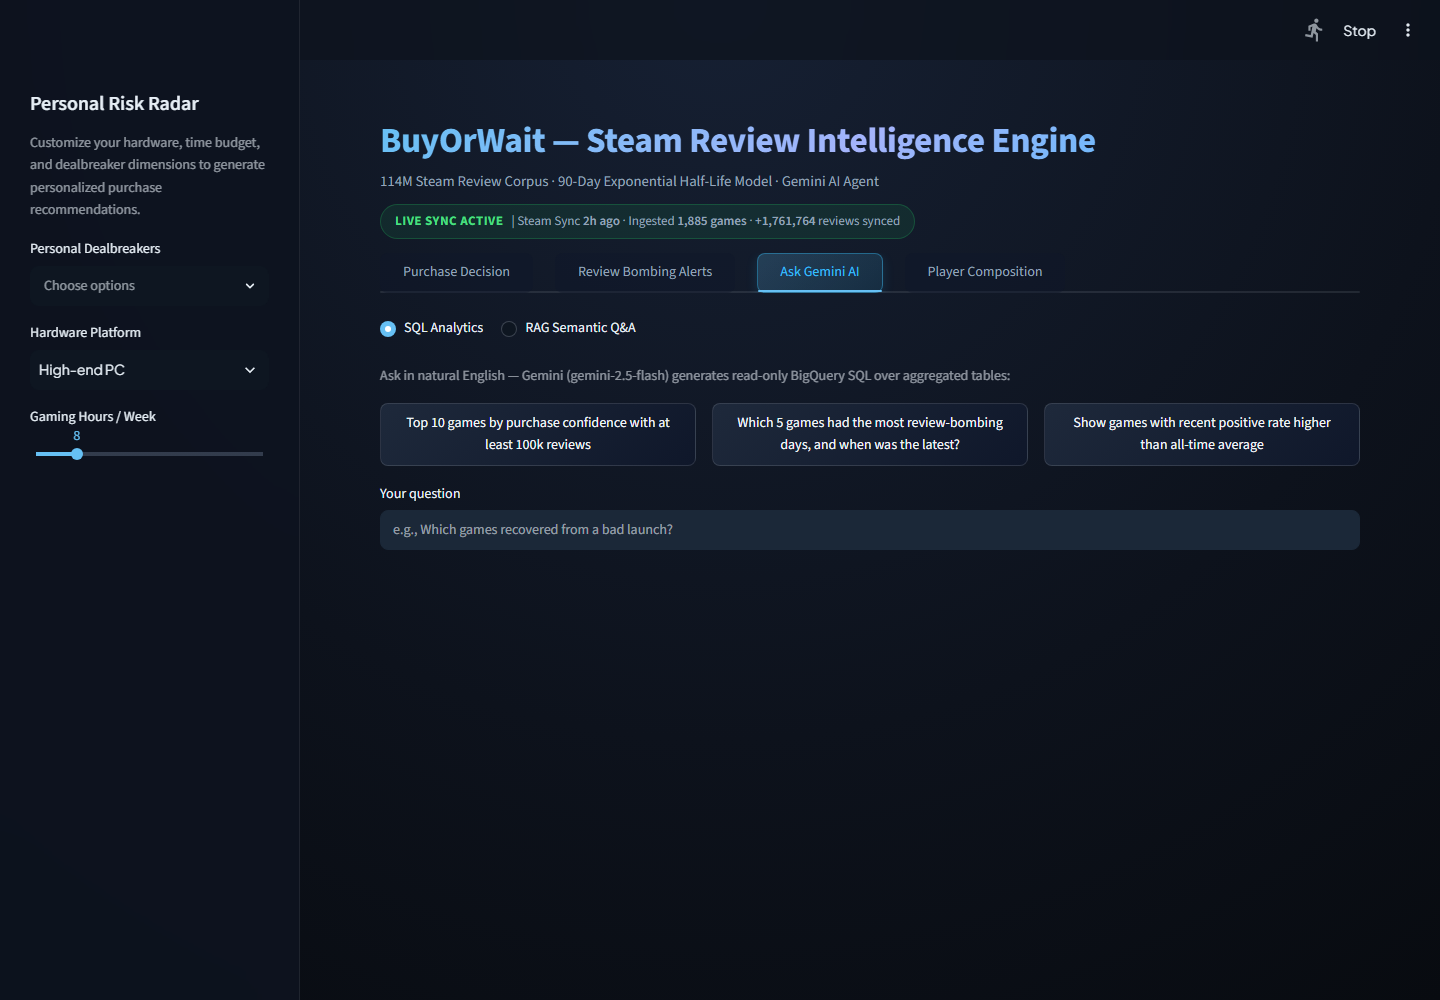
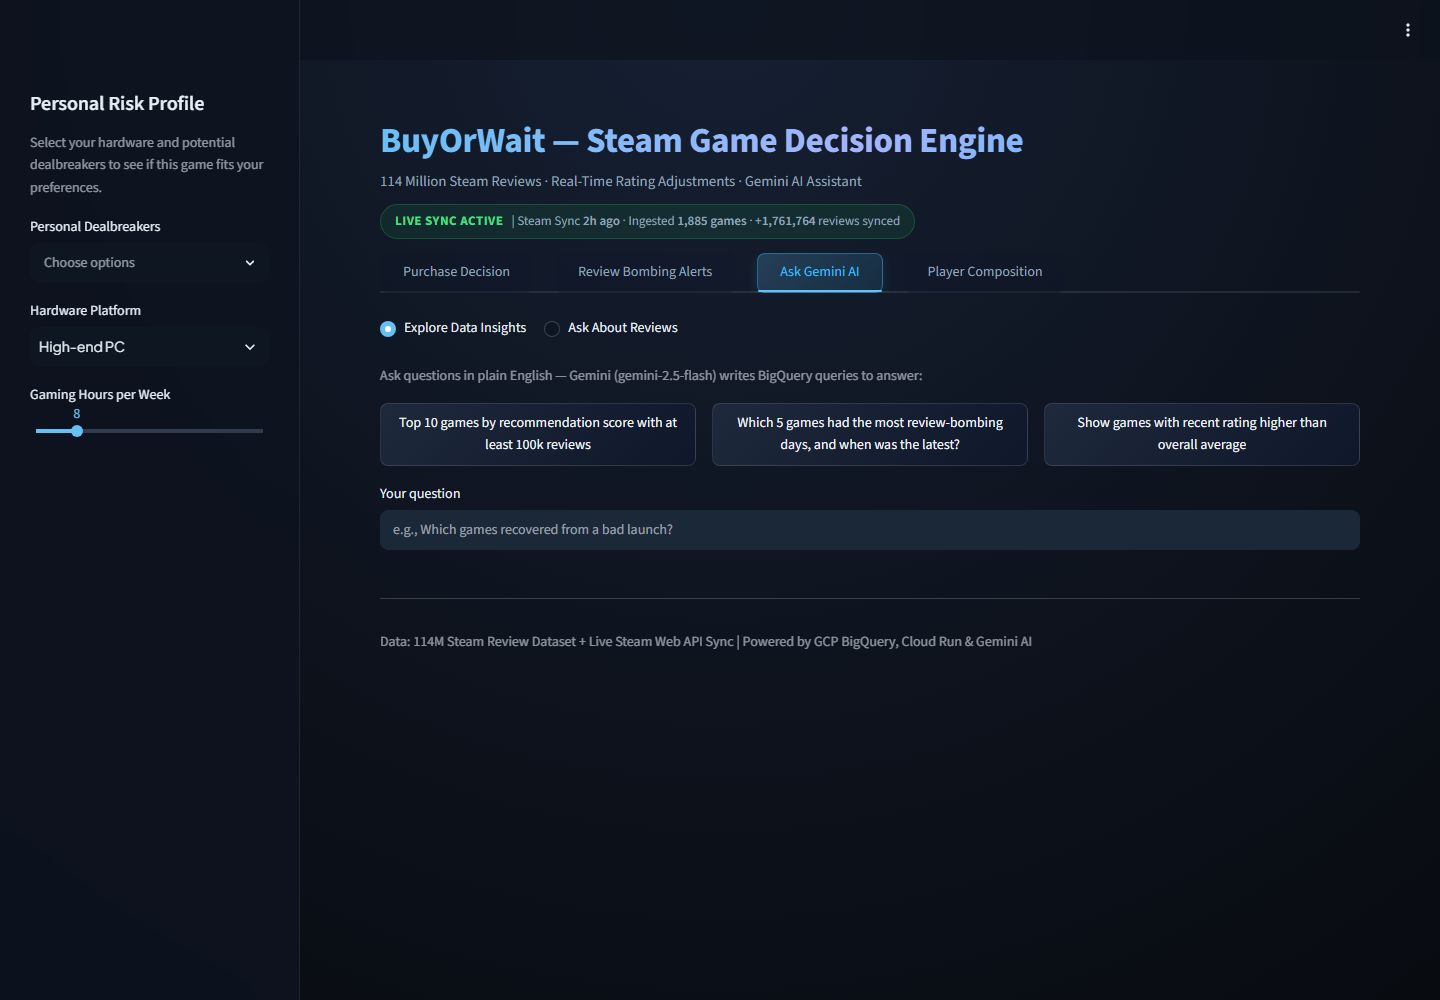
refactor(metrics): simplify technical jargon into intuitive player-friendly metrics

diff --git a/app/app.py b/app/app.py
@@ -21,7 +21,7 @@ PROJECT = os.environ.get("GCP_PROJECT", "buyorwait-2026")
 DATASET = os.environ.get("BQ_DATASET", "steam_intel")
 GEMINI_MODEL = os.environ.get("GEMINI_MODEL", "gemini-2.5-flash")
 
-st.set_page_config(page_title="BuyOrWait — Steam Review Intelligence Platform", page_icon="🎮", layout="wide")
+st.set_page_config(page_title="BuyOrWait — Steam Game Decision Engine", page_icon="🎮", layout="wide")
 
 # Modern Glassmorphism Dark Theme CSS
 st.markdown("""
@@ -165,7 +165,7 @@ def T(name: str) -> str:
 def verdict(score: float, recent: float | None) -> str:
     base = "RECOMMENDED (Buy)" if score >= 70 else ("PROCEED WITH CAUTION (Wait)" if score >= 40 else "NOT RECOMMENDED (Skip)")
     if recent is not None and not pd.isna(recent) and recent + 15 < score:
-        base += " (Recent sentiment decline detected)"
+        base += " (Recent rating drop detected)"
     return base
 
 
@@ -228,16 +228,15 @@ def live_panel(appid: int, snap_recent: float | None):
         st.info("Steam reports no reviews for this app.")
         return
     c1, c2, c3, c4 = st.columns(4)
-    c1.metric("Overall rating (live)", live["desc"],
+    c1.metric("Overall Rating (Steam Live)", live["desc"],
               f"{live['total_pos']:.0f}% positive", delta_color="off")
-    c2.metric("Total reviews (live)", f"{live['total']:,}")
-    c3.metric(f"Newest {live['sample_n']} reviews",
+    c2.metric("Total Reviews (Live)", f"{live['total']:,}")
+    c3.metric(f"Newest {live['sample_n']} Reviews",
               "—" if live["sample_pos"] is None else f"{live['sample_pos']:.0f}% Positive",
               None if (live["sample_pos"] is None or snap_recent is None)
-              else f"{live['sample_pos'] - snap_recent:+.0f}% vs snapshot recent 90d")
-    c4.metric("Newest review", live["newest"] or "—")
-    st.caption("Fetched seconds ago from the public Steam appreviews API — the same feed an "
-               "incremental ingestion job would stream into BigQuery to keep scores current.")
+              else f"{live['sample_pos'] - snap_recent:+.0f}% vs recent snapshot")
+    c4.metric("Newest Review Date", live["newest"] or "—")
+    st.caption("Live data fetched directly from Steam API to keep scores up to date.")
 
 
 # ---- Semantic layer: query embedding + BigQuery VECTOR_SEARCH ----------------
@@ -277,13 +276,13 @@ def vsearch(appid: int, query: str, k: int = 20, polarity: bool | None = None) -
 
 
 RADAR_DIMS = {
-    "Monetization & MTX": "microtransactions pay to win overpriced cash grab battle pass",
+    "Monetization & In-Game Purchases": "microtransactions pay to win overpriced cash grab battle pass",
     "Low-End PC Performance": "fps drops stuttering lag poor optimization low end pc",
-    "Bugs & Stability": "bugs crashes broken glitches corrupted save unplayable",
-    "Server & Network Stability": "servers down disconnect lag matchmaking dead online",
-    "Content Depth & Length": "too short lacking content finished in a few hours",
-    "Repetitive Grind": "grindy repetitive boring farming time gated chores",
-    "Steam Deck & Controller": "steam deck controller support broken keyboard only",
+    "Bugs & Technical Stability": "bugs crashes broken glitches corrupted save unplayable",
+    "Server & Online Connection": "servers down disconnect lag matchmaking dead online",
+    "Game Length & Content Shortage": "too short lacking content finished in a few hours",
+    "Repetitive Game Loop": "grindy repetitive boring farming time gated chores",
+    "Steam Deck & Controller Support": "steam deck controller support broken keyboard only",
 }
 
 
@@ -325,26 +324,26 @@ def freshness_badge():
         st.markdown("""
         <div style="display: flex; align-items: center; gap: 8px; background: rgba(234, 179, 8, 0.1); border: 1px solid rgba(234, 179, 8, 0.25); padding: 6px 14px; border-radius: 20px; width: fit-content; margin-bottom: 14px;">
             <span style="color: #facc15; font-size: 13px; font-weight: 700; letter-spacing: 0.5px;">SNAPSHOT ACTIVE</span>
-            <span style="color: #94a3b8; font-size: 13px;">| 114M Review Corpus Loaded · Nightly Sync Ingesting</span>
+            <span style="color: #94a3b8; font-size: 13px;">| 114 Million Steam Reviews Loaded · Nightly Sync Ingesting</span>
         </div>
         """, unsafe_allow_html=True)
 
 
-st.markdown('<div class="hero-title">BuyOrWait — Steam Review Intelligence Engine</div>', unsafe_allow_html=True)
-st.markdown('<div class="hero-subtitle">114M Steam Review Corpus · 90-Day Exponential Half-Life Model · Gemini AI Agent</div>', unsafe_allow_html=True)
+st.markdown('<div class="hero-title">BuyOrWait — Steam Game Decision Engine</div>', unsafe_allow_html=True)
+st.markdown('<div class="hero-subtitle">114 Million Steam Reviews · Real-Time Rating Adjustments · Gemini AI Assistant</div>', unsafe_allow_html=True)
 freshness_badge()
 
 # ---- My Radar: personal dealbreaker profile (session-only, no login) ---------
 with st.sidebar:
-    st.header("Personal Risk Radar")
-    st.caption("Customize your hardware, time budget, and dealbreaker dimensions to generate personalized purchase recommendations.")
+    st.header("Personal Risk Profile")
+    st.caption("Select your hardware and potential dealbreakers to see if this game fits your preferences.")
     my_dims = st.multiselect("Personal Dealbreakers", list(RADAR_DIMS), default=[])
     my_device = st.selectbox("Hardware Platform", ["High-end PC", "Low-end PC", "Steam Deck"], index=0)
-    my_hours = st.slider("Gaming Hours / Week", 1, 40, 8)
+    my_hours = st.slider("Gaming Hours per Week", 1, 40, 8)
     if my_device == "Low-end PC" and "Low-End PC Performance" not in my_dims:
         my_dims.append("Low-End PC Performance")
-    if my_device == "Steam Deck" and "Steam Deck & Controller" not in my_dims:
-        my_dims.append("Steam Deck & Controller")
+    if my_device == "Steam Deck" and "Steam Deck & Controller Support" not in my_dims:
+        my_dims.append("Steam Deck & Controller Support")
 
 tab_buy, tab_alert, tab_ask, tab_comp = st.tabs(
     ["Purchase Decision", "Review Bombing Alerts", "Ask Gemini AI", "Player Composition"])
@@ -358,7 +357,7 @@ with tab_buy:
                         labels, index=None,
                         placeholder="e.g., Cyberpunk 2077 / Overwatch 2 / ELDEN RING")
 
-    with st.expander("Game not listed? Search Steam live (post-2023 releases)"):
+    with st.expander("Game not listed? Search Steam live"):
         kw_live = st.text_input("Steam live search", placeholder="e.g., Black Myth: Wukong")
         if kw_live:
             try:
@@ -373,10 +372,9 @@ with tab_buy:
                         for g, a in zip(live_hits["game"], live_hits["appid"])}
                 pick_live = st.selectbox("Found on Steam (live):", list(opts))
                 _log_usage("live_search", pick_live, opts[pick_live])
-                st.subheader("Live Verification — Steam Web API")
+                st.subheader("Live Verification — Steam API")
                 live_panel(opts[pick_live], None)
-                st.caption("This game post-dates the snapshot, so it has no Purchase Confidence "
-                           "Score yet — tonight's sync starts scoring it once it enters the top tracked set.")
+                st.caption("This game post-dates the main dataset, so its score is fetched directly from live Steam ratings.")
 
     if pick:
         appid = int(pick.rsplit("#", 1)[1].rstrip(")"))
@@ -389,83 +387,81 @@ with tab_buy:
                     use_container_width=True)
         with c_m:
             c1, c2, c3, c4 = st.columns(4)
-            c1.metric("Purchase Confidence (0-100)", f"{row.score_live:.0f}")
+            c1.metric("Recommendation Score (0-100)", f"{row.score_live:.0f}")
             c2.metric("Verdict", verdict(row.score_live, row.recent_pos_rate_live))
-            c3.metric("Recent 90d Positive Rate",
+            c3.metric("Recent 90-Day Rating",
                       "—" if pd.isna(row.recent_pos_rate_live) else f"{row.recent_pos_rate_live:.0f}%",
                       delta=None if (pd.isna(row.recent_pos_rate_live) or pd.isna(row.raw_pos_rate))
-                      else f"{row.recent_pos_rate_live - row.raw_pos_rate:+.0f}% vs all-time")
-            c4.metric("Reviews Analyzed", f"{int(row.n_reviews_total):,}")
-        with st.expander("Score Rationale & Decay Model"):
+                      else f"{row.recent_pos_rate_live - row.raw_pos_rate:+.0f}% vs overall")
+            c4.metric("Total Reviews Analyzed", f"{int(row.n_reviews_total):,}")
+        with st.expander("Why This Score?"):
             st.markdown(
-                f"- **All-time positive rate:** {row.raw_pos_rate:.0f}% — baseline store page ratio\n"
-                f"- **Confidence score:** {row.score_live:.0f} — weighted by "
-                f"`log(1+playtime) × exp(−age/90d)`, anchored to **today**\n"
-                f"- **Recent 90 days:** "
+                f"- **All-Time Positive Rating:** {row.raw_pos_rate:.0f}% — standard Steam store percentage\n"
+                f"- **Recommendation Score:** {row.score_live:.0f} — gives higher weight to **recent reviews** and **players with long playtimes**\n"
+                f"- **Recent 90-Day Rating:** "
                 f"{'no recent reviews' if pd.isna(row.recent_pos_rate_live) else f'{row.recent_pos_rate_live:.0f}% positive over {int(row.recent_n_live):,} reviews'}\n"
-                f"- **Latest review date:** {row.last_review_day}\n\n"
-                "A large divergence between confidence score and all-time positive rate indicates recent sentiment shifts (patch updates or review bombing)."
+                f"- **Latest Review Date:** {row.last_review_day}\n\n"
+                "A noticeable gap between the recommendation score and all-time rating signals recent game updates or review bombing."
             )
 
-        # Reviewer composition X-ray
+        # Reviewer composition
         try:
             comp = q(f"""SELECT n, purchase_pct, free_pct, ea_pct
                          FROM {T('game_composition')} WHERE appid = @a""", a=appid)
             if not comp.empty:
                 c0 = comp.iloc[0]
-                st.caption(f"Reviewer Acquisition Mix ({int(c0.n):,} reviews): "
-                           f"{c0.purchase_pct:.0f}% Direct Purchase · "
-                           f"{c0.free_pct:.0f}% Free/Gift Key · "
-                           f"{c0.ea_pct:.0f}% Early Access Reviewers")
+                st.caption(f"Player Ownership Breakdown ({int(c0.n):,} reviews): "
+                           f"{c0.purchase_pct:.0f}% Bought on Steam · "
+                           f"{c0.free_pct:.0f}% Free / Gift Keys · "
+                           f"{c0.ea_pct:.0f}% Early Access Players")
         except Exception:
             pass
 
-        # ---------------- For YOU: personal collision card ----------------
+        # ---------------- For YOU: personal warning radar ----------------
         try:
             extra = q(f"""SELECT refund_zone_pct, pos_median_hours
                           FROM {T('game_scores')} WHERE appid = @a""", a=appid)
         except Exception:
             extra = pd.DataFrame()
-        st.subheader("Personalized Dealbreaker Radar")
+        st.subheader("Personal Warning Radar")
         red_flags = []
         if my_dims:
             cols = st.columns(min(len(my_dims), 4))
             for i, dim in enumerate(my_dims):
                 hits = vsearch(appid, RADAR_DIMS[dim], k=25, polarity=False)
                 if hits.empty:
-                    cols[i % 4].metric(dim, "—", "not in indexed set", delta_color="off")
+                    cols[i % 4].metric(dim, "—", "no matching reviews", delta_color="off")
                     continue
                 level, n = radar_level(hits)
                 if level.startswith("High"):
                     red_flags.append(dim)
                 cols[i % 4].metric(dim, level, f"{n} relevant complaints", delta_color="off")
-                with cols[i % 4].popover("View Evidence Quotes"):
+                with cols[i % 4].popover("See What Players Say"):
                     for t in hits["text"].head(3):
                         st.caption(f"“{t[:220]}…”")
         if not extra.empty and not pd.isna(extra.iloc[0].pos_median_hours):
             med_h = float(extra.iloc[0].pos_median_hours)
             weeks = med_h / max(my_hours, 1)
             rz = extra.iloc[0].refund_zone_pct
-            line = (f"Optimal Immersion Curve: Happy players reach core satisfaction at **{med_h:.0f}h** — "
-                    f"at your {my_hours}h/week budget, that represents **~{weeks:.1f} weeks** to full value.")
+            line = (f"Player Engagement: Satisfied players spend an average of **{med_h:.0f} hours** in game — "
+                    f"at your {my_hours}h/week pace, that is **~{weeks:.1f} weeks** of gameplay.")
             if not pd.isna(rz):
-                line += (f" | Steam Refund Window: {rz:.0f}% of dissatisfied players requested a refund "
-                         f"within the 2-hour window.")
+                line += (f" | Refund Zone: {rz:.0f}% of unhappy players quit within the 2-hour Steam refund cutoff.")
             st.markdown(line)
         if red_flags:
-            st.error(f"Personal Verdict: PROCEED WITH CAUTION — Your selected dealbreakers "
-                     f"({', '.join(red_flags)}) show elevated complaint density.")
+            st.error(f"Personal Verdict: PROCEED WITH CAUTION — Elevated complaints found for your dealbreakers "
+                     f"({', '.join(red_flags)}).")
         elif my_dims:
             st.success("Personal Verdict: NO ELEVATED RISK detected for your profile.")
         else:
-            st.caption("Select your dealbreaker dimensions in the sidebar to view personalized risk matching.")
+            st.caption("Select your dealbreakers in the sidebar to get a personalized warning report.")
 
-        # ---------------- Courtroom mode: forced adversarial verdict ----
-        if st.button("Courtroom Analysis — AI Adversarial Arguments", key=f"court_{appid}"):
+        # ---------------- AI Pros & Cons Analysis ----
+        if st.button("AI Pros & Cons Analysis", key=f"court_{appid}"):
             pros = vsearch(appid, "amazing experience totally worth it best game recommended", 10, polarity=True)
             cons = vsearch(appid, "broken disappointed waste of money refund problems", 10, polarity=False)
             if pros.empty and cons.empty:
-                st.info("This game is not in the semantic vector index.")
+                st.info("No indexed review evidence found for this game.")
             else:
                 ev_p = "\n".join(f"- {t[:200]}" for t in pros["text"].head(8))
                 ev_c = "\n".join(f"- {t[:200]}" for t in cons["text"].head(8))
@@ -477,14 +473,14 @@ with tab_buy:
                                              location=os.environ.get("VERTEX_LOCATION", "global")))
                     verdictmd = _gc.models.generate_content(
                         model=GEMINI_MODEL,
-                        contents=(f"You are a courtroom analyst evaluating '{row.game}'. Real player evidence:\n"
-                                  f"DEFENSE EVIDENCE (Positive Reviews):\n{ev_p}\n"
-                                  f"PROSECUTION EVIDENCE (Negative Reviews):\n{ev_c}\n"
-                                  "Write in markdown: '#### Defense Argument (Case for Purchase)' (3 bullets), "
-                                  "'#### Prosecution Argument (Case Against)' (3 bullets), "
-                                  "'#### Final Judicial Ruling' (2 sentences, decisive advice). Ground every claim in evidence.")).text
+                        contents=(f"Analyze player reviews for '{row.game}'. Evidence:\n"
+                                  f"POSITIVE REVIEWS:\n{ev_p}\n"
+                                  f"NEGATIVE REVIEWS:\n{ev_c}\n"
+                                  "Write in simple English markdown: '#### Reasons to Buy (Pros)' (3 clear bullet points), "
+                                  "'#### Reasons to Skip (Cons)' (3 clear bullet points), "
+                                  "'#### Final AI Verdict' (2 simple sentences summarizing who should buy).")).text
                     st.markdown(verdictmd)
-                    st.caption("Adversarial Analysis: Forces the LLM to argue both defense and prosecution positions using real retrieved player reviews.")
+                    st.caption("AI evaluates both happy and unhappy player reviews to give a balanced verdict.")
                 except Exception as e:
                     st.error(f"Gemini service unavailable: {e}")
 
@@ -506,8 +502,8 @@ with tab_buy:
 # ---------------------------------------------------------------- Bombing Alert
 with tab_alert:
     c1, c2 = st.columns(2)
-    zmin = c1.slider("Minimum Z-Score Severity", 3.0, 10.0, 3.0, 0.5)
-    minn = c2.slider("Min Daily Reviews Threshold", 3, 200, 30, 1)
+    zmin = c1.slider("Alert Sensitivity Level", 3.0, 10.0, 3.0, 0.5)
+    minn = c2.slider("Minimum Daily Reviews", 3, 200, 30, 1)
     try:
         alerts = q(f"""
             WITH ep AS (
@@ -541,10 +537,10 @@ with tab_alert:
             GROUP BY appid
             ORDER BY latest_day DESC, peak_daily_reviews DESC
             LIMIT 500""", z=float(zmin), minn=int(minn))
-    st.caption(f"Identified {len(alerts)} review bombing episodes. Criterion: Negative review rate Z > {zmin} AND daily volume > 2x baseline. AI Attribution uses distinctive TF-IDF keyword extraction summarized by Gemini.")
+    st.caption(f"Found {len(alerts)} review bombing events. Identifies sudden spikes in negative reviews and uses AI to summarize why players were upset.")
     st.dataframe(alerts, use_container_width=True, height=480,
                  column_config={"why_bombed_ai": st.column_config.TextColumn(
-                     "AI Attribution Summary", width="large")})
+                     "Why Players Are Upset (AI Summary)", width="large")})
 
 # ---------------------------------------------------------------- Ask Gemini
 SCHEMA_PROMPT = f"""You translate questions about Steam game reviews into BigQuery Standard SQL.
@@ -562,12 +558,10 @@ Tables:
    appid INT64, game STRING, date INT64 (epoch nanoseconds, same conversion as above),
    n INT64 (reviews that day), neg_rate FLOAT64 (0-1), z FLOAT64 (severity z-score),
    base_neg_rate FLOAT64 (0-1, 30-day baseline).
-4. {T('benchmark_results')} — CPU vs GPU pipeline timings.
-   run_ts STRING, mode STRING ('cpu' or 'gpu'), stage STRING, seconds FLOAT64, rows INT64.
-5. {T('v_daily_all')} — PREFERRED for any date logic: one row per game per day,
+4. {T('v_daily_all')} — PREFERRED for any date logic: one row per game per day,
    2023 snapshot MERGED with the nightly Steam sync. appid INT64, day DATE,
    n INT64, pos INT64, w_sum FLOAT64, wv_sum FLOAT64.
-6. {T('v_scores_live')} — evergreen scores anchored to CURRENT_DATE():
+5. {T('v_scores_live')} — evergreen scores anchored to CURRENT_DATE():
    appid INT64, game STRING, score_live FLOAT64 (0-100), raw_pos_rate FLOAT64,
    recent_n_live INT64, recent_pos_rate_live FLOAT64, n_reviews_total INT64,
    last_review_day DATE.
@@ -613,9 +607,9 @@ def run_sql(sql: str) -> pd.DataFrame:
 
 
 with tab_ask:
-    ask_mode = st.radio("Mode", ["SQL Analytics", "RAG Semantic Q&A"],
+    ask_mode = st.radio("Mode", ["Explore Data Insights", "Ask About Reviews"],
                         horizontal=True, label_visibility="collapsed")
-    if ask_mode == "RAG Semantic Q&A":
+    if ask_mode == "Ask About Reviews":
         names_rag = q(f"""SELECT appid, game FROM {T('game_scores')}
                           WHERE game IS NOT NULL ORDER BY n_reviews DESC LIMIT 300""")
         rag_pick = st.selectbox("Game", (names_rag["game"] + "  (#" +
@@ -647,19 +641,19 @@ with tab_ask:
                                   f"Max 120 words.\nREVIEWS:\n{numbered}\n"
                                   f"QUESTION: {rag_q}\nANSWER:")).text
                     st.markdown(ans)
-                    with st.expander("Evidence (retrieved via BigQuery VECTOR_SEARCH)"):
+                    with st.expander("Evidence Reviews"):
                         st.text(numbered)
-                    st.caption("Grounded RAG: Query embedded in-process → BigQuery VECTOR_SEARCH → Gemini answers only from evidence.")
+                    st.caption("AI searches real player reviews and answers using direct player feedback.")
                 except Exception as e:
                     st.error(f"Gemini unavailable: {e}")
         elif rag_pick and rag_q:
             st.warning("Ask-Gemini session limit (5) reached — refresh for a new session.")
-    if ask_mode == "SQL Analytics":
-        st.caption(f"Ask in natural English — Gemini ({GEMINI_MODEL}) generates read-only BigQuery SQL over aggregated tables:")
+    if ask_mode == "Explore Data Insights":
+        st.caption(f"Ask questions in plain English — Gemini ({GEMINI_MODEL}) writes BigQuery queries to answer:")
         examples = [
-            "Top 10 games by purchase confidence with at least 100k reviews",
+            "Top 10 games by recommendation score with at least 100k reviews",
             "Which 5 games had the most review-bombing days, and when was the latest?",
-            "Show games with recent positive rate higher than all-time average",
+            "Show games with recent rating higher than overall average",
         ]
         cols = st.columns(len(examples))
         for col, ex in zip(cols, examples):
@@ -679,7 +673,7 @@ with tab_ask:
                 st.error(f"Gemini is not available: {e}")
             else:
                 err = guard_sql(sql)
-                with st.expander("Generated SQL", expanded=False):
+                with st.expander("Generated SQL Query", expanded=False):
                     st.code(sql, language="sql")
                 if err:
                     st.error(err)
@@ -690,13 +684,12 @@ with tab_ask:
                         st.error(f"BigQuery rejected the query: {e}")
                     else:
                         st.dataframe(out, use_container_width=True)
-                        st.caption(f"{len(out)} rows · query generated by {GEMINI_MODEL}, "
-                                   "validated as read-only, capped at 1 GB scanned.")
+                        st.caption(f"{len(out)} rows · query generated by {GEMINI_MODEL}.")
 
 # ---------------------------------------------------------------- Player Composition
 with tab_comp:
-    st.subheader("Reviewer Composition & Astroturf Screening Radar")
-    st.caption("Acquisition channel X-ray across 32,793 games in the snapshot — Direct Steam Purchase %, Free Key / Gift %, Early Access Review %.")
+    st.subheader("Player Ownership & Review Quality")
+    st.caption("Breakdown of player acquisition channels across 32,793 games — Direct Purchase %, Free / Gift Keys %, and Early Access Reviews %.")
     try:
         comp_df = q(f"""
             SELECT s.game, s.appid, s.n_reviews_total AS n_reviews,
@@ -713,9 +706,9 @@ with tab_comp:
             height=420,
             column_config={
                 "game": st.column_config.TextColumn("Game Title", width="medium"),
-                "purchase_pct": st.column_config.NumberColumn("Direct Steam Purchase %", format="%.1f%%"),
-                "free_pct": st.column_config.NumberColumn("Free Key / Gift % (Astroturf Risk)", format="%.1f%%"),
-                "ea_pct": st.column_config.NumberColumn("Early Access Review %", format="%.1f%%"),
+                "purchase_pct": st.column_config.NumberColumn("Direct Purchase %", format="%.1f%%"),
+                "free_pct": st.column_config.NumberColumn("Free / Gift Keys %", format="%.1f%%"),
+                "ea_pct": st.column_config.NumberColumn("Early Access %", format="%.1f%%"),
                 "n_reviews": st.column_config.NumberColumn("Total Reviews", format="%d"),
             }
         )
@@ -723,6 +716,4 @@ with tab_comp:
         st.info(f"Player composition data unavailable ({e}).")
 
 st.divider()
-st.caption("Data: 114M-review Kaggle snapshot + nightly Steam Web API sync | "
-           "Architecture: GCS + BigQuery + Cloud Run + Cloud Scheduler/Jobs + RAPIDS on L4 + Gemini (Vertex AI) | "
-           "App only queries aggregated tables, latency < 2s")
+st.caption("Data: 114M Steam Review Dataset + Live Steam Web API Sync | Powered by GCP BigQuery, Cloud Run & Gemini AI")
